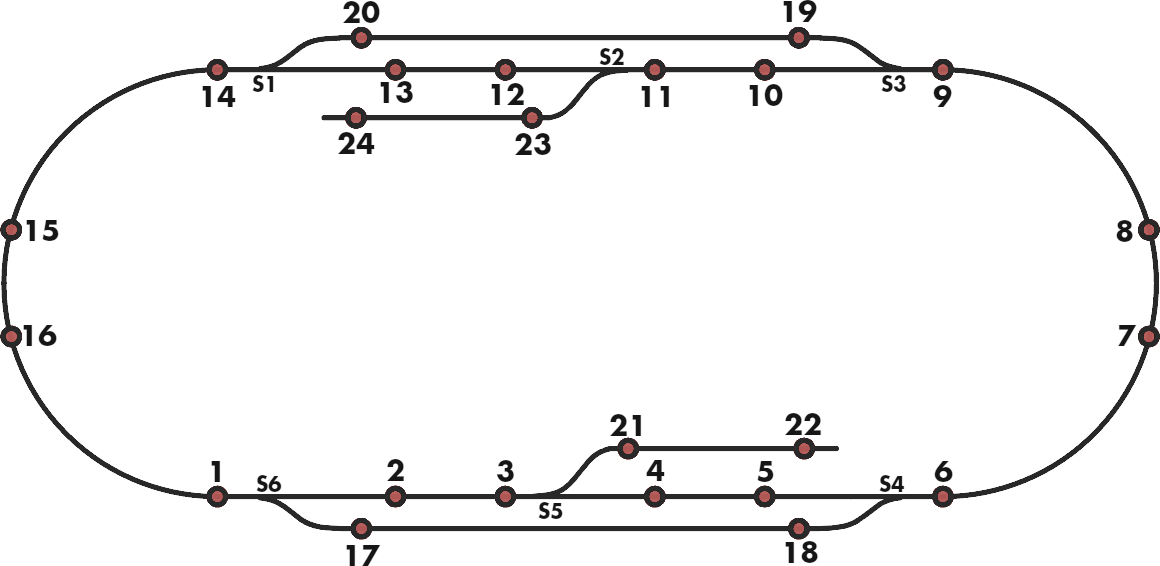
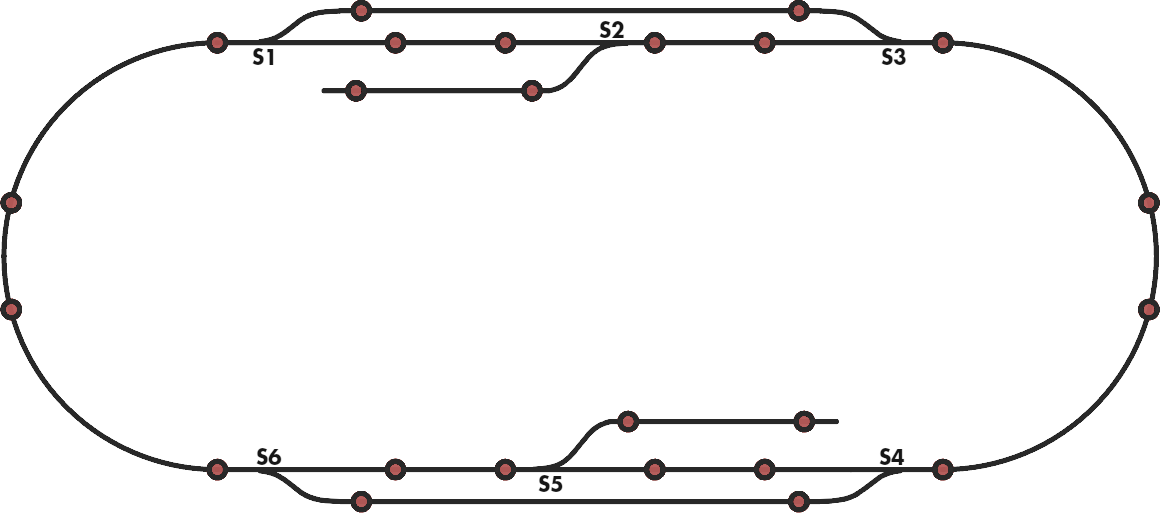
Remove station labels from map image

Changed region(s): [[0.0, 0.0, 1.0, 0.4678], [0.0, 0.5302, 1.0, 1.0]]

diff --git a/map.py b/map.py
@@ -10,10 +10,11 @@ port = None
 baud_rate = 115200
 
 img_width = 1160
-img_height = 566
+img_height = 513
 
-x_padding = (1366 - img_width) / 2
-y_padding = 10
+x_padding = 5
+y_padding = 5
+y_offset = 26
 
 pos_x = 100
 pos_y = 100
@@ -63,26 +64,28 @@ def set_station(n):
     if n in station_ids:
         station = stations[n]
         pos_x = x_padding + station[0]
-        pos_y = y_padding + station[1]
+        pos_y = y_padding + station[1] - y_offset
         direction = station[2]
 
 def go(n): 
     global send_queue
     send_queue.append(n)
     print(f"Going to: {n}")
+    set_station(n)
 
 def process_updates(root, state):
-    global pos_x, pos_y, direction, ser
-    canvas = tk.Canvas(root, width = 1366, height = 768)
+    global pos_x, pos_y, direction, ser, img_width, img_height
+    canvas = tk.Canvas(root, width = img_width + 2 * x_padding, height = img_height + 2 * y_padding)
     canvas.pack()
 
     background = ImageTk.PhotoImage(file = "img/map.png")
     canvas.create_image(x_padding, y_padding, image = background, anchor="nw")
 
+    btn_size = 32
     for i in range(1, 25):
         station = stations[i - 1]
         button = tk.Button(root, text = f"{i}", command = lambda n=i: go(n))
-        button.place(x = x_padding + station[0], y = y_padding + station[1], anchor="n")
+        button.place(x = x_padding + station[0], y = y_padding + station[1] - y_offset, anchor="center", height = btn_size, width = btn_size)
 
     t = threading.Thread(target = do_the_serial)
     t.daemon = True
